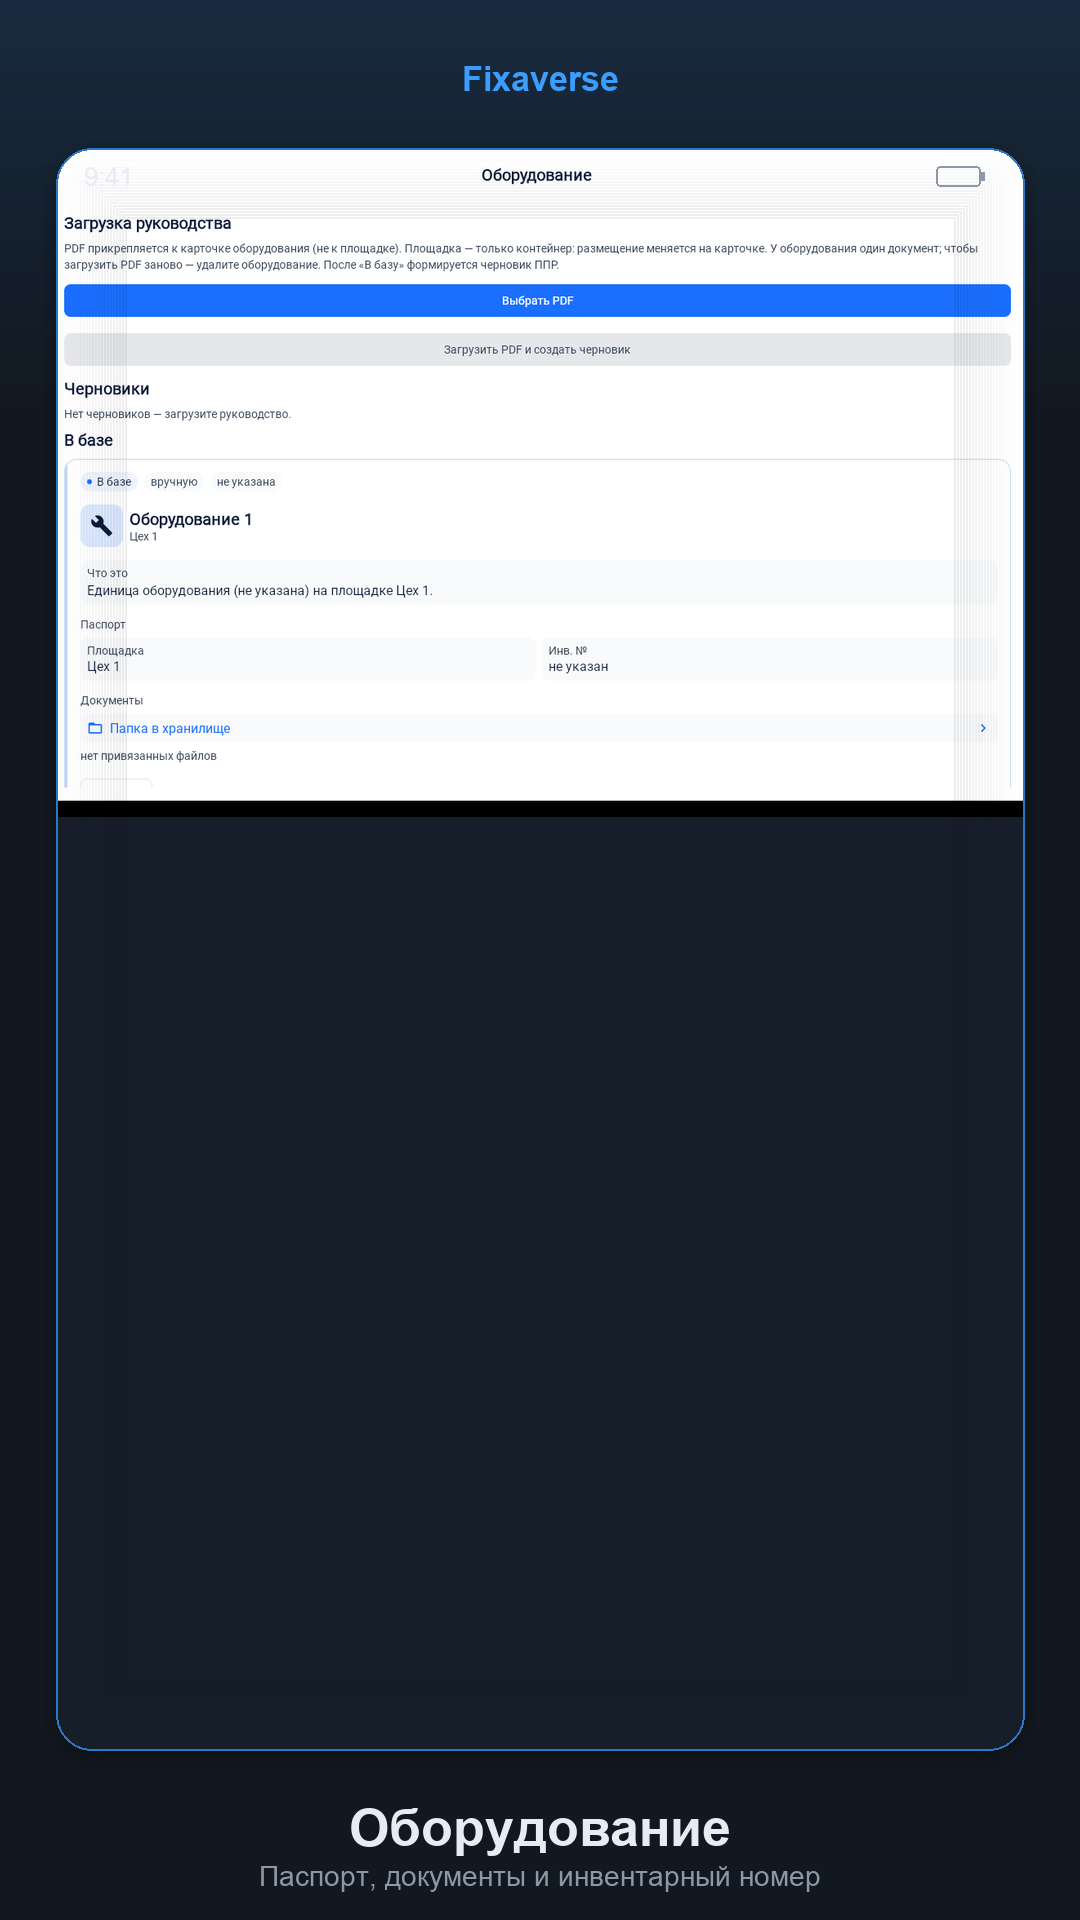
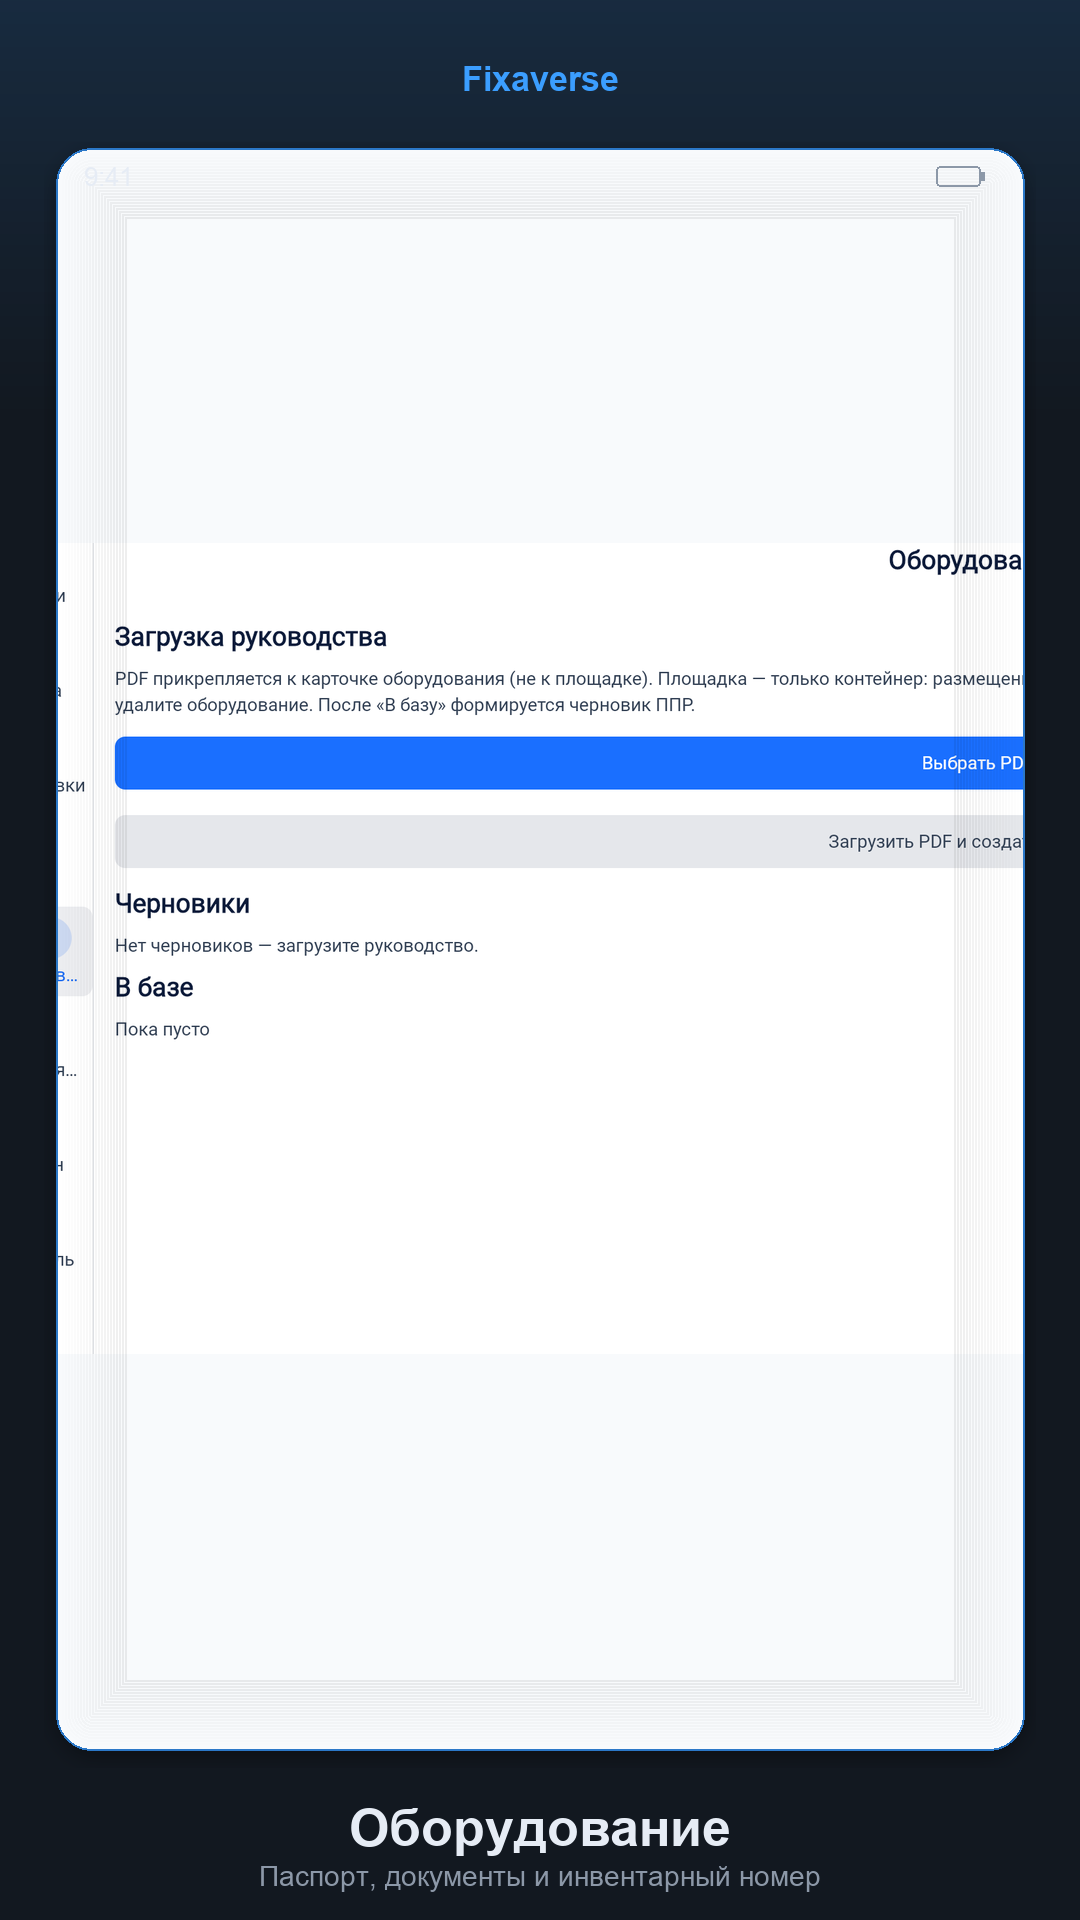
chore(rustore): ship listing screenshots and moderator copy
Tighten store listing text (≤80 short desc), regenerate portrait screenshots, and mark Console publish checklist after first AAB submission.

diff --git a/store/rustore/generate_assets.py b/store/rustore/generate_assets.py
@@ -58,17 +58,14 @@ def crop_main_content(
     return src.crop(box)
 
 
-def fit_width_crop(img: Image.Image, tw: int, th: int, focus_y: float = 0.0) -> Image.Image:
+def fit_contain(img: Image.Image, tw: int, th: int, bg=(248, 250, 252)) -> Image.Image:
+    """Fit entire UI into frame with light letterboxing (desktop → portrait)."""
     iw, ih = img.size
-    scale = tw / iw
-    nh = int(ih * scale)
-    resized = img.resize((tw, nh), Image.Resampling.LANCZOS)
-    if nh >= th:
-        top = int((nh - th) * focus_y)
-        top = max(0, min(top, nh - th))
-        return resized.crop((0, top, tw, top + th))
-    canvas = Image.new("RGB", (tw, th), FRAME_BG)
-    canvas.paste(resized, (0, 0))
+    scale = min(tw / iw, th / ih)
+    nw, nh = max(1, int(iw * scale)), max(1, int(ih * scale))
+    resized = img.resize((nw, nh), Image.Resampling.LANCZOS)
+    canvas = Image.new("RGB", (tw, th), bg)
+    canvas.paste(resized, ((tw - nw) // 2, (th - nh) // 2))
     return canvas
 
 
@@ -140,7 +137,7 @@ def compose_screenshot(
     frame_w = W - FRAME_PAD_X * 2
     frame_h = H - FRAME_TOP - FRAME_BOTTOM
 
-    ui = fit_width_crop(content, frame_w, frame_h, focus_y=focus_y)
+    ui = fit_contain(content, frame_w, frame_h)
 
     canvas = Image.new("RGB", (W, H), BG)
     draw = ImageDraw.Draw(canvas)
@@ -234,31 +231,27 @@ def main() -> None:
     UPLOAD.mkdir(parents=True, exist_ok=True)
 
     compose_screenshot(
-        ROOT / "smoke-uuid-06-mywo.png",
+        ROOT / "smoke-uuid-08-wo-detail.png",
         UPLOAD / "screenshot-01.png",
         caption="Заявки",
         subtitle="Список работ и статусы на объекте",
-        crop_box=(125, 0, 1100, 520),
-        focus_y=0.0,
+        crop_box=(110, 0, 1750, 1300),
     )
 
     compose_screenshot(
-        ROOT / ".superpowers/sdd/smoke-board2.png",
+        ROOT / "smoke-uuid-13-board.png",
         UPLOAD / "screenshot-02.png",
-        caption="Карта",
-        subtitle="Доска недели и заявки на линии",
-        crop_box=(125, 0, 2100, 860),
-        cover_boxes=[(1180, 365, 1585, 535)],
-        focus_y=0.08,
+        caption="Доска",
+        subtitle="План недели и заявки на линии",
+        crop_box=(110, 0, 2400, 1300),
     )
 
     compose_screenshot(
-        ROOT / "smoke-eq5-detail.png",
+        ROOT / "smoke-uuid-10-equipment.png",
         UPLOAD / "screenshot-03.png",
         caption="Оборудование",
         subtitle="Паспорт, документы и инвентарный номер",
-        crop_box=(95, 0, 1280, 820),
-        focus_y=0.0,
+        crop_box=(110, 0, 1900, 1300),
     )
 
     compose_screenshot(
@@ -266,8 +259,7 @@ def main() -> None:
         UPLOAD / "screenshot-04.png",
         caption="ППР",
         subtitle="Карты обслуживания и регламенты",
-        crop_box=(125, 0, 1650, 980),
-        focus_y=0.22,
+        crop_box=(110, 0, 2100, 1300),
     )
 
     generate_icon(OUT / "icon-512.png")

diff --git a/store/rustore/copy.md b/store/rustore/copy.md
@@ -8,10 +8,10 @@
 Fixaverse — заявки для инженера
 ```
 
-## Краткое описание
+## Краткое описание (≤80)
 
 ```
-Заявки, доска недели, карта коллег, оборудование и ППР — в одном приложении инженера.
+Заявки, доска, карта коллег, оборудование и ППР — приложение инженера.
 ```
 
 ## Полное описание
@@ -31,7 +31,7 @@ Fixaverse — мобильный клиент инженера на объект
 ## Комментарий модератору
 
 ```
-Корпоративное приложение для инженеров и техников обслуживающих организаций. Вход по корпоративной учётной записи организации Fixaverse. Персональные данные пользователей не передаются третьим лицам.
+Тестовый вход: mail+rustore@antonbutov.com / FixaverseRuStore1 (орг. Fixaverse Smoke). Корпоративное приложение инженера; вход по учётке организации.
 ```
 
 ## Карточка
